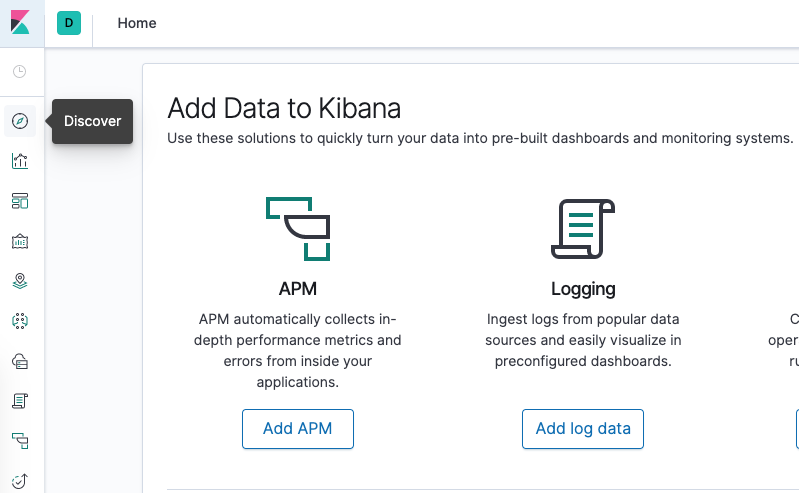
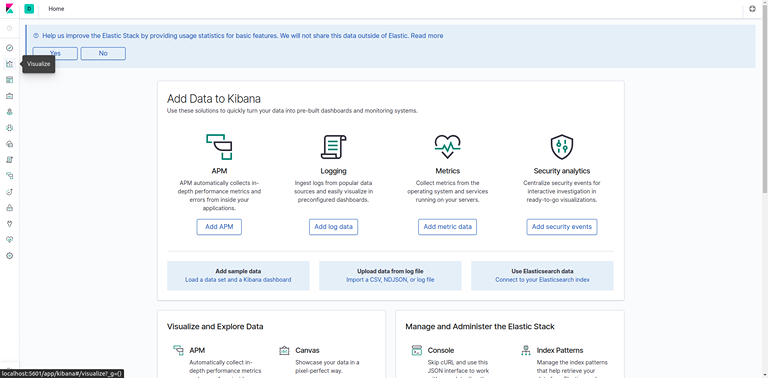
Update kibana screenshots

diff --git a/content/md/posts/2022-10-13-ELK-MINIKUBE.md b/content/md/posts/2022-10-13-ELK-MINIKUBE.md
@@ -393,10 +393,12 @@ curl http://127.0.0.1:202
 
 - You should see the following configuration window:
 
-![Kibana Index Pattern Configuration](/img/kibana_index_settings.png "Kibana Index Pattern Configuration")
+![Kibana Index Pattern Configuration](/img/create_index_pattern.png "Kibana Index Pattern Configuration")
 
 - This allows you to define the Elasticsearch indices you’d like to explore in Kibana. To learn more, consult Defining your index patterns in the official Kibana docs. For now, we’ll just use the fluent-* wildcard pattern to capture all the log data in our Elasticsearch cluster. Enter fluent-* in the text box and click on Next step.
 - Click on next, and then in the dropdown hit Create index pattern.
+
+![Kibana Index Pattern](/img/kibana_index_pattern.png "Kibana Index Pattern")
 
 - Now, hit Discover in the left hand navigation menu.
 
